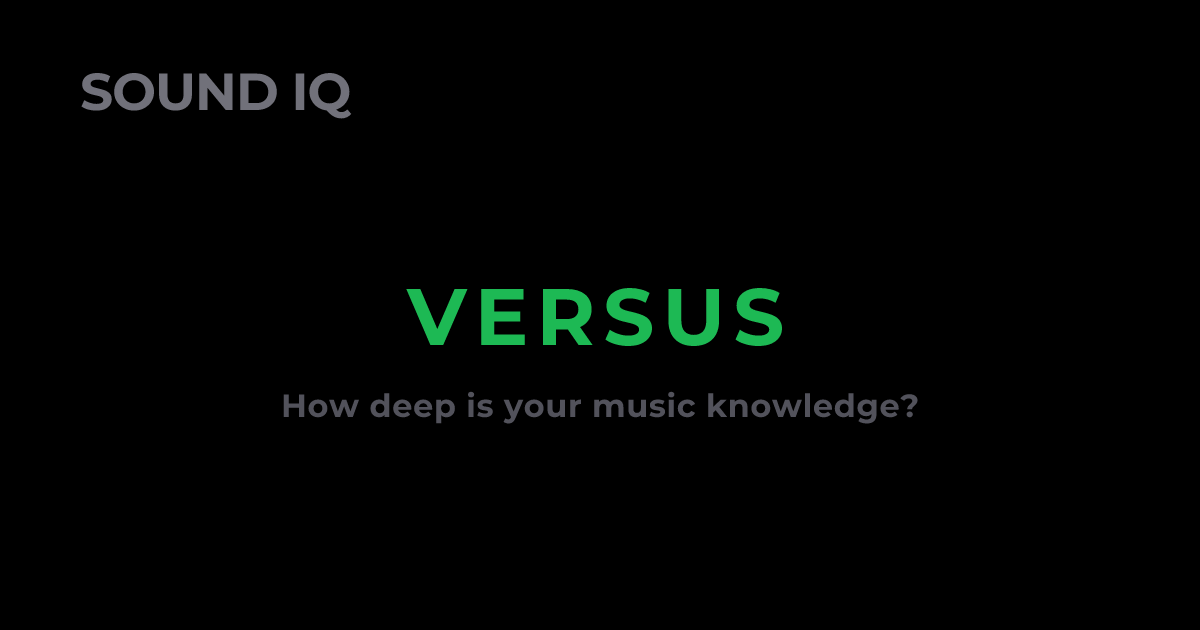
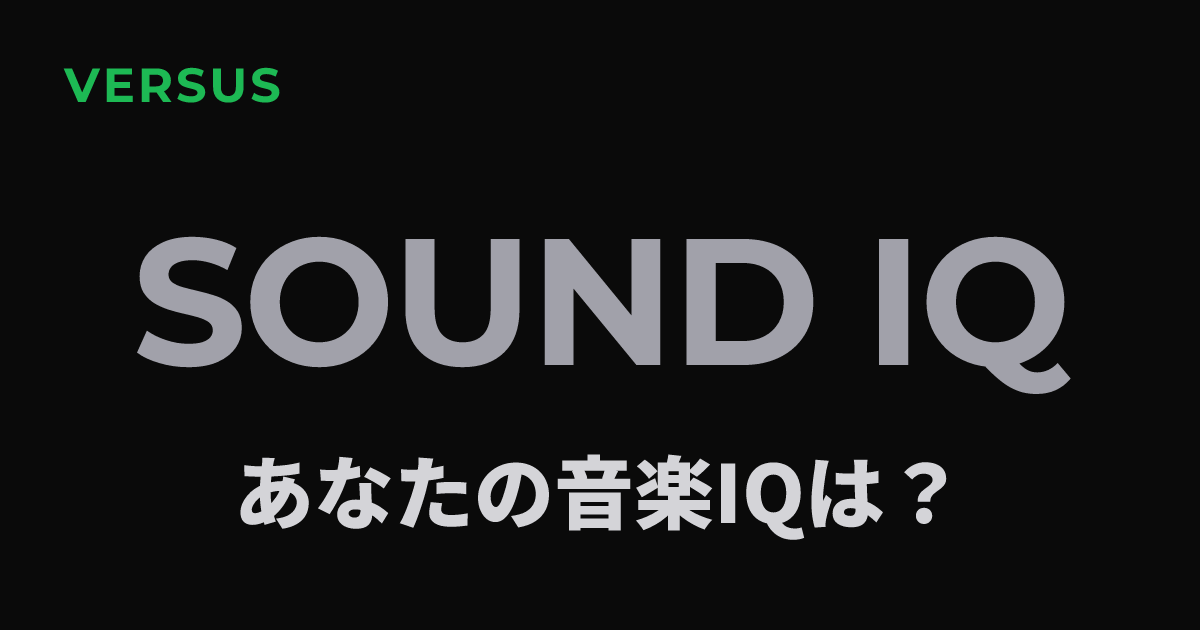
OG image redesign: SOUND IQ centered, CTA below, mode top-left
- SOUND IQ at vertical center (180px, zinc-400 gray)
- "あなたの音楽IQは？" below with Noto Sans JP Black
- Mode label (VERSUS/TIMELINE) moved to top-left with accent color
- Background #0A0A0A, absolute positioning for precise layout

diff --git a/app/api/og/route.tsx b/app/api/og/route.tsx
@@ -3,11 +3,12 @@ import { NextRequest } from 'next/server'
 
 export const runtime = 'edge'
 
-async function loadFont(): Promise<ArrayBuffer> {
-  const res = await fetch(
-    'https://fonts.gstatic.com/s/montserrat/v29/JTUHjIg1_i6t8kCHKm4532VJOt5-QNFgpCuM70w-Y3tcoqK5.ttf'
-  )
-  return res.arrayBuffer()
+async function loadFonts() {
+  const [montserrat, notoSansJp] = await Promise.all([
+    fetch('https://fonts.gstatic.com/s/montserrat/v29/JTUHjIg1_i6t8kCHKm4532VJOt5-QNFgpCuM70w-Y3tcoqK5.ttf').then(r => r.arrayBuffer()),
+    fetch('https://fonts.gstatic.com/s/notosansjp/v56/-F6jfjtqLzI2JPCgQBnw7HFyzSD-AsregP8VFLgk75s.ttf').then(r => r.arrayBuffer()),
+  ])
+  return { montserrat, notoSansJp }
 }
 
 function getGrade(score: number): { label: string; color: string } {
@@ -20,8 +21,11 @@ function getGrade(score: number): { label: string; color: string } {
 }
 
 export async function GET(req: NextRequest) {
-  const fontData = await loadFont()
-  const fonts = [{ name: 'Montserrat', data: fontData, weight: 900 as const, style: 'normal' as const }]
+  const { montserrat, notoSansJp } = await loadFonts()
+  const fonts = [
+    { name: 'Montserrat', data: montserrat, weight: 900 as const, style: 'normal' as const },
+    { name: 'NotoSansJP', data: notoSansJp, weight: 900 as const, style: 'normal' as const },
+  ]
 
   const { searchParams } = req.nextUrl
   const brand = searchParams.get('brand')
@@ -34,12 +38,10 @@ export async function GET(req: NextRequest) {
   if (brand === '1') {
     return new ImageResponse(
       (
-        <div style={{ display: 'flex', flexDirection: 'column', width: '100%', height: '100%', backgroundColor: '#000', padding: '60px 80px', fontFamily: 'Montserrat' }}>
-          <div style={{ display: 'flex', fontSize: '52px', fontWeight: 900, color: '#71717a', letterSpacing: '-0.02em' }}>SOUND IQ</div>
-          <div style={{ display: 'flex', flexDirection: 'column', alignItems: 'center', justifyContent: 'center', flex: 1 }}>
-            <div style={{ display: 'flex', fontSize: '80px', fontWeight: 900, color: accentColor, letterSpacing: '0.1em' }}>{modeLabel}</div>
-            <div style={{ display: 'flex', fontSize: '32px', fontWeight: 900, color: '#52525b', marginTop: '20px', letterSpacing: '0.02em' }}>How deep is your music knowledge?</div>
-          </div>
+        <div style={{ display: 'flex', position: 'relative', width: '100%', height: '100%', backgroundColor: '#0A0A0A', fontFamily: 'Montserrat' }}>
+          <div style={{ display: 'flex', position: 'absolute', top: '56px', left: '64px', fontSize: '48px', fontWeight: 900, color: accentColor, letterSpacing: '0.06em' }}>{modeLabel}</div>
+          <div style={{ display: 'flex', position: 'absolute', top: '210px', width: '100%', justifyContent: 'center', fontSize: '180px', fontWeight: 900, color: '#A1A1AA', letterSpacing: '-0.02em', lineHeight: 1 }}>SOUND IQ</div>
+          <div style={{ display: 'flex', position: 'absolute', top: '430px', width: '100%', justifyContent: 'center', fontSize: '80px', fontWeight: 900, color: '#D4D4D8', fontFamily: 'NotoSansJP' }}>あなたの音楽IQは？</div>
         </div>
       ),
       {
